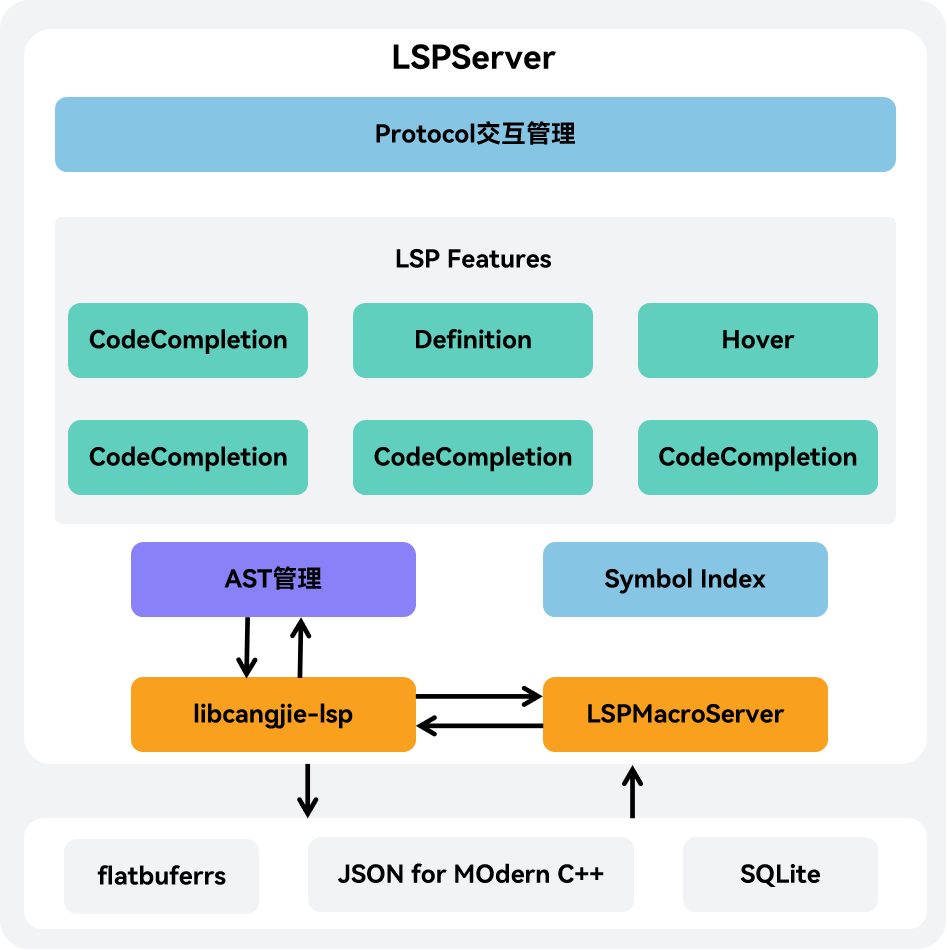
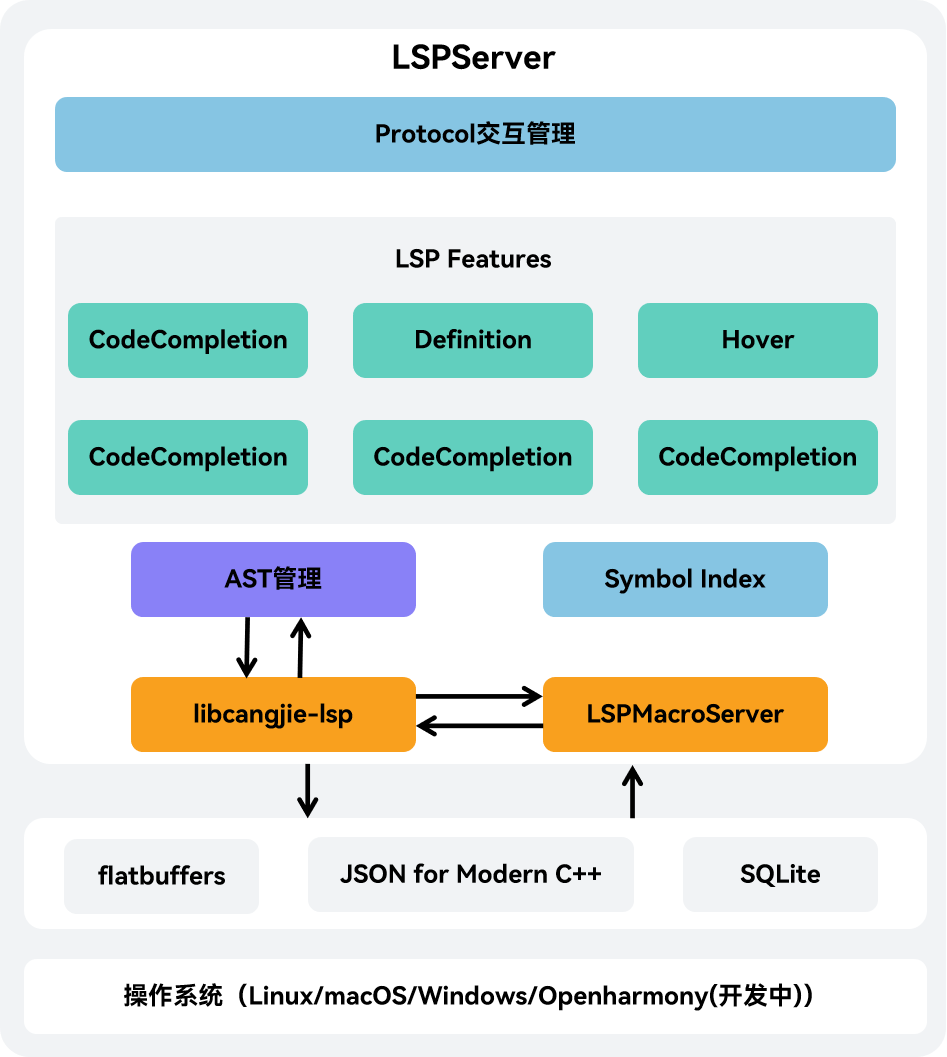
fix: change lsp doc png

diff --git a/cangjie-language-server/src/json-rpc/StdioTransport.cpp b/cangjie-language-server/src/json-rpc/StdioTransport.cpp
@@ -82,7 +82,7 @@ void StdioTransport::SendMsg(const nlohmann::json &message)
     std::ostringstream os;
     // "-1", no indentation format
     os << message.dump(-1, ' ', false, nlohmann::json::error_handler_t::ignore);
-    (void)fprintf(pFileOut, "Content-Length:%d%s%s",
+    (void)fprintf(pFileOut, "Content-Length: %d%s%s",
                    static_cast<int>(os.str().size()), MessageHeaderEndOfLine::GetEol().c_str(), os.str().c_str());
     (void)fflush(pFileOut);
     CleanAndLog(log, "send message body:" + os.str());

diff --git a/README.md b/README.md
@@ -2,7 +2,7 @@
 
 ## Introduction
 
-The Cangjie language provides a rich set of command line tools and language server tool for developers. After successfully installing the Cangjie toolchain, you can use these tools according to the manual instructions.
+The Cangjie language provides a rich set of command line tools for developers. After successfully installing the Cangjie toolchain, you can use these tools according to the manual instructions.
 
 ## Open Source Project Introduction
 
@@ -62,7 +62,7 @@ This project is licensed under [Apache-2.0 with Runtime Library Exception](./LIC
 | Software Name        | License             | Usage Description                                               | Main Component | Usage Method                               |
 |----------------------|---------------------|-----------------------------------------------------------------|----------------|--------------------------------------------|
 | flatbuffers          | Apache License V2.0 | Cangjie Language Server serializes and deserializes index data. | LSPServer      | Integrated into the Cangjie binary release |
-| JSON  for Modern C++ | MIT License         | Cangjie Language Server for message parsing and encapsulation.  | LSPServer      | Integrated into the Cangjie binary release |
+| JSON for Modern C++  | MIT License         | Cangjie Language Server for message parsing and encapsulation.  | LSPServer      | Integrated into the Cangjie binary release |
 | SQLite               | Public Domain       | Cangjie Language Server uses the database to store index data.  | LSPServer      | Integrated into the Cangjie binary release |
 
 ## Contribution

diff --git a/README_zh.md b/README_zh.md
@@ -2,7 +2,7 @@
 
 ## 简介
 
-仓颉语言为开发者提供了丰富的命令行工具以及语言服务工具，在成功安装仓颉工具链后，即可根据手册说明使用这些工具。
+仓颉语言为开发者提供了丰富的命令行工具，在成功安装仓颉工具链后，即可根据手册说明使用这些工具。
 
 ## 开源项目介绍
 
@@ -62,7 +62,7 @@
 | 开源软件名称               | 开源许可协议              | 使用说明                  | 使用主体 | 使用方式         |
 |----------------------|---------------------|-----------------------|------|--------------|
 | flatbuffers          | Apache License V2.0 | 仓颉语言服务对索引数据进行序列化和反序列化 | 语言服务 | 集成到仓颉二进制发布包中 |
-| JSON  for Modern C++ | MIT License         | 仓颉语言服务用于报文解析和封装       | 语言服务 | 集成到仓颉二进制发布包中 |
+| JSON for Modern C++  | MIT License         | 仓颉语言服务用于报文解析和封装       | 语言服务 | 集成到仓颉二进制发布包中 |
 | SQLite               | Public Domain       | 仓颉语言服务使用数据库存储索引数据     | 语言服务 | 集成到仓颉二进制发布包中 |
 
 ## 参与贡献

diff --git a/README_OpenHarmony.md b/README_OpenHarmony.md
@@ -46,7 +46,7 @@ OpenHarmony 通过 `cangjie_tools` 各目录下的 `build` 目录内的提供的
 | 开源软件名称               | 开源许可协议              | 使用说明                  | 使用主体 | 使用方式         |
 |----------------------|---------------------|-----------------------|------|--------------|
 | flatbuffers          | Apache License V2.0 | 仓颉语言服务对索引数据进行序列化和反序列化 | 语言服务 | 集成到仓颉二进制发布包中 |
-| JSON  for Modern C++ | MIT License         | 仓颉语言服务用于报文解析和封装       | 语言服务 | 集成到仓颉二进制发布包中 |
+| JSON for Modern C++  | MIT License         | 仓颉语言服务用于报文解析和封装       | 语言服务 | 集成到仓颉二进制发布包中 |
 | SQLite               | Public Domain       | 仓颉语言服务使用数据库存储索引数据     | 语言服务 | 集成到仓颉二进制发布包中 |
 
 ## 风险提示

diff --git a/cangjie-language-server/doc/developer_guide_EN.md b/cangjie-language-server/doc/developer_guide_EN.md
@@ -2,13 +2,13 @@
 
 ## Open Source Project Introduction
 
-This project is a language server that supports IDE features for Cangjie.
+This project is a language server that supports IDE features for Cangjie, It is a backend server and must be used in conjunction with an IDE client. Developers can utilize the VSCode extension officially released by Cangjie or develop their own IDE clients compatible with the Language Server Protocol (LSP).
 
 The project can be compiled into an executable named LSPServer.
 
 The system architecture diagram is as follows:
 
-![SystemArchitecture](./figures/SystemArchitecture.png)
+![SystemArchitecture](./figures/SystemArchitecture_EN.png)
 
 ## Directory Structure
 

diff --git a/cangjie-language-server/doc/user_guide_EN.md b/cangjie-language-server/doc/user_guide_EN.md
@@ -13,7 +13,7 @@ The startup parameters for `Cangjie Language Server` are as follows:
 ```bash
 --test                Used to launch LSPServer in test mode
 --disableAutoImport   Disables the automatic package import feature for code completion
---enable-log=<value>  Enables log generation by default; pass false to disable log generation
+--enable-log=<value>  Disables log generation by default; pass true to open log generation
 --log-path=<value>    Sets the path for generated logs
 -V                    Enables crash log generation functionality
 ```

diff --git a/cangjie-language-server/doc/user_guide.md b/cangjie-language-server/doc/user_guide.md
@@ -13,7 +13,7 @@
 ```bash
 --test                用于在测试中启动LSPServer
 --disableAutoImport   禁用补全自动包导入功能
---enable-log=<value>  默认开启日志生成，如果传入false，则关闭日志生成
+--enable-log=<value>  默认关闭日志生成，如果传入true，则开启日志生成
 --log-path=<value>    设置生成日志路径
 -V                    开启生成崩溃日志功能
 ```

diff --git a/cangjie-language-server/doc/developer_guide.md b/cangjie-language-server/doc/developer_guide.md
@@ -2,7 +2,7 @@
 
 ## 开源项目介绍
 
-该项目是一个语言服务工具，支持仓颉的IDE功能。
+该项目是一个语言服务工具，是在IDE上提供仓颉语言服务的服务器后端，需要搭配IDE客户端使用。开发者可以搭配仓颉发布的VSCode插件，或自行开发适配LSP协议的IDE客户端使用。
 
 这个工程可以编译成一个名为LSPServer的可执行文件。
 
